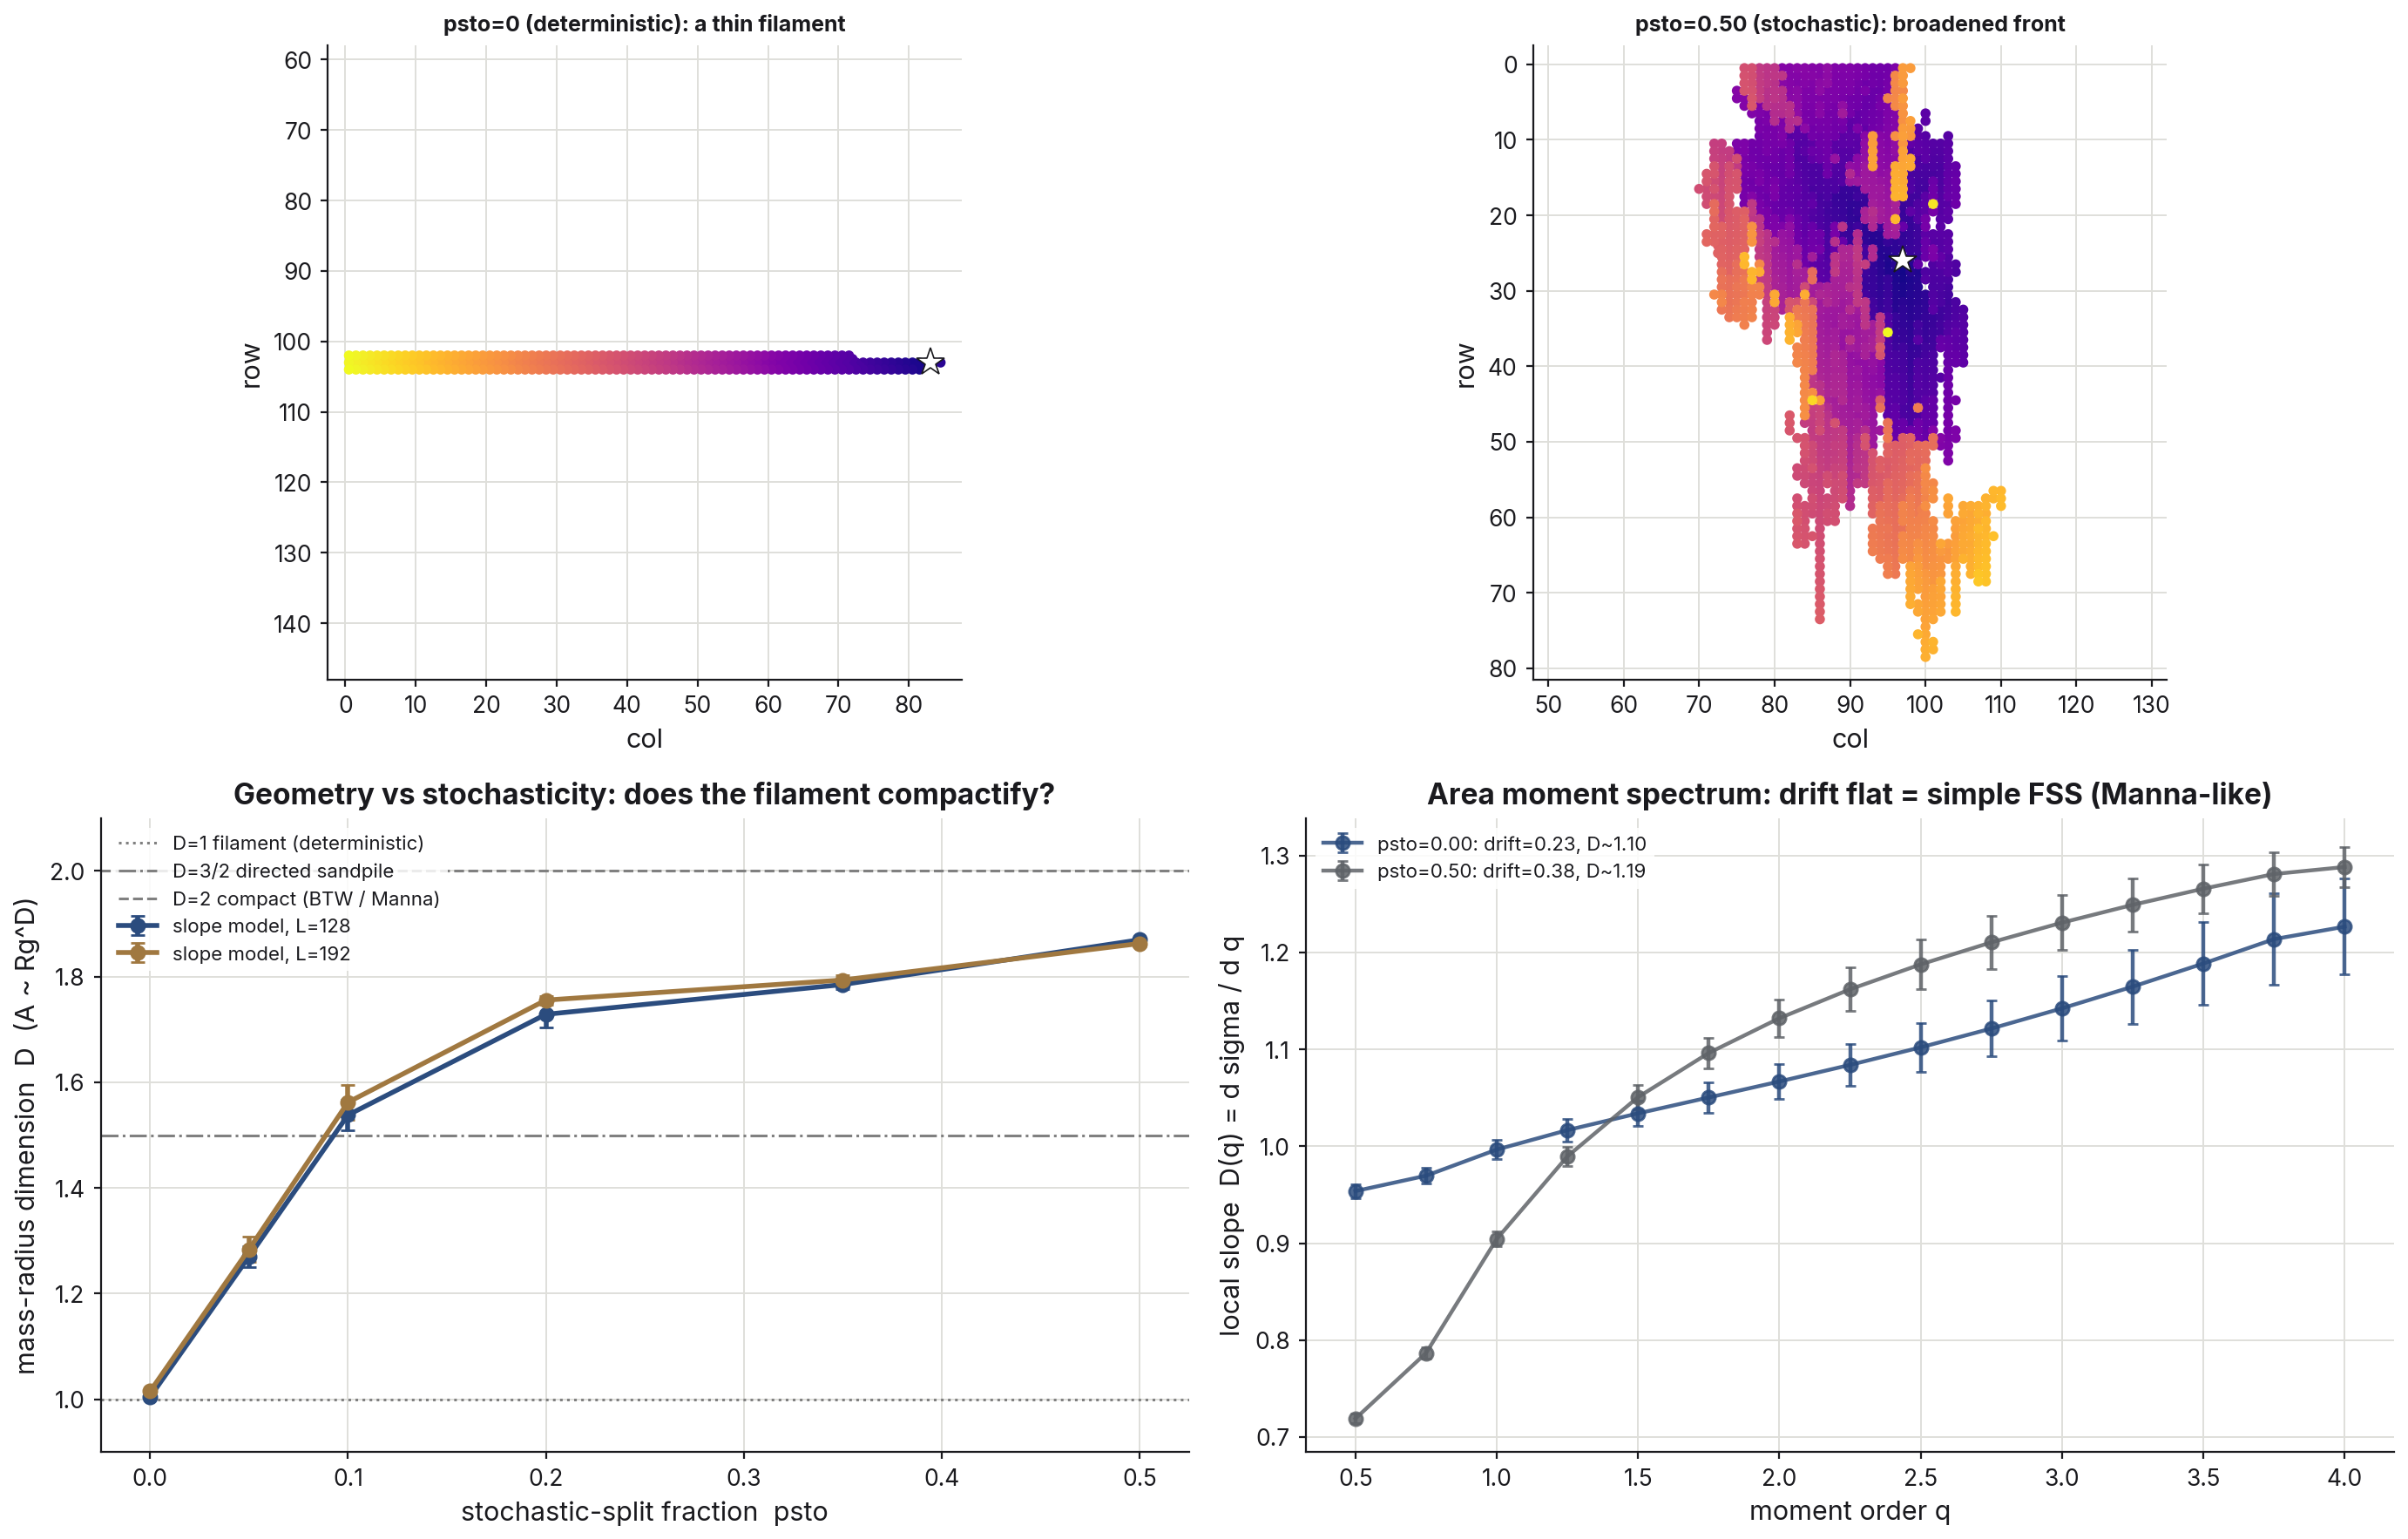
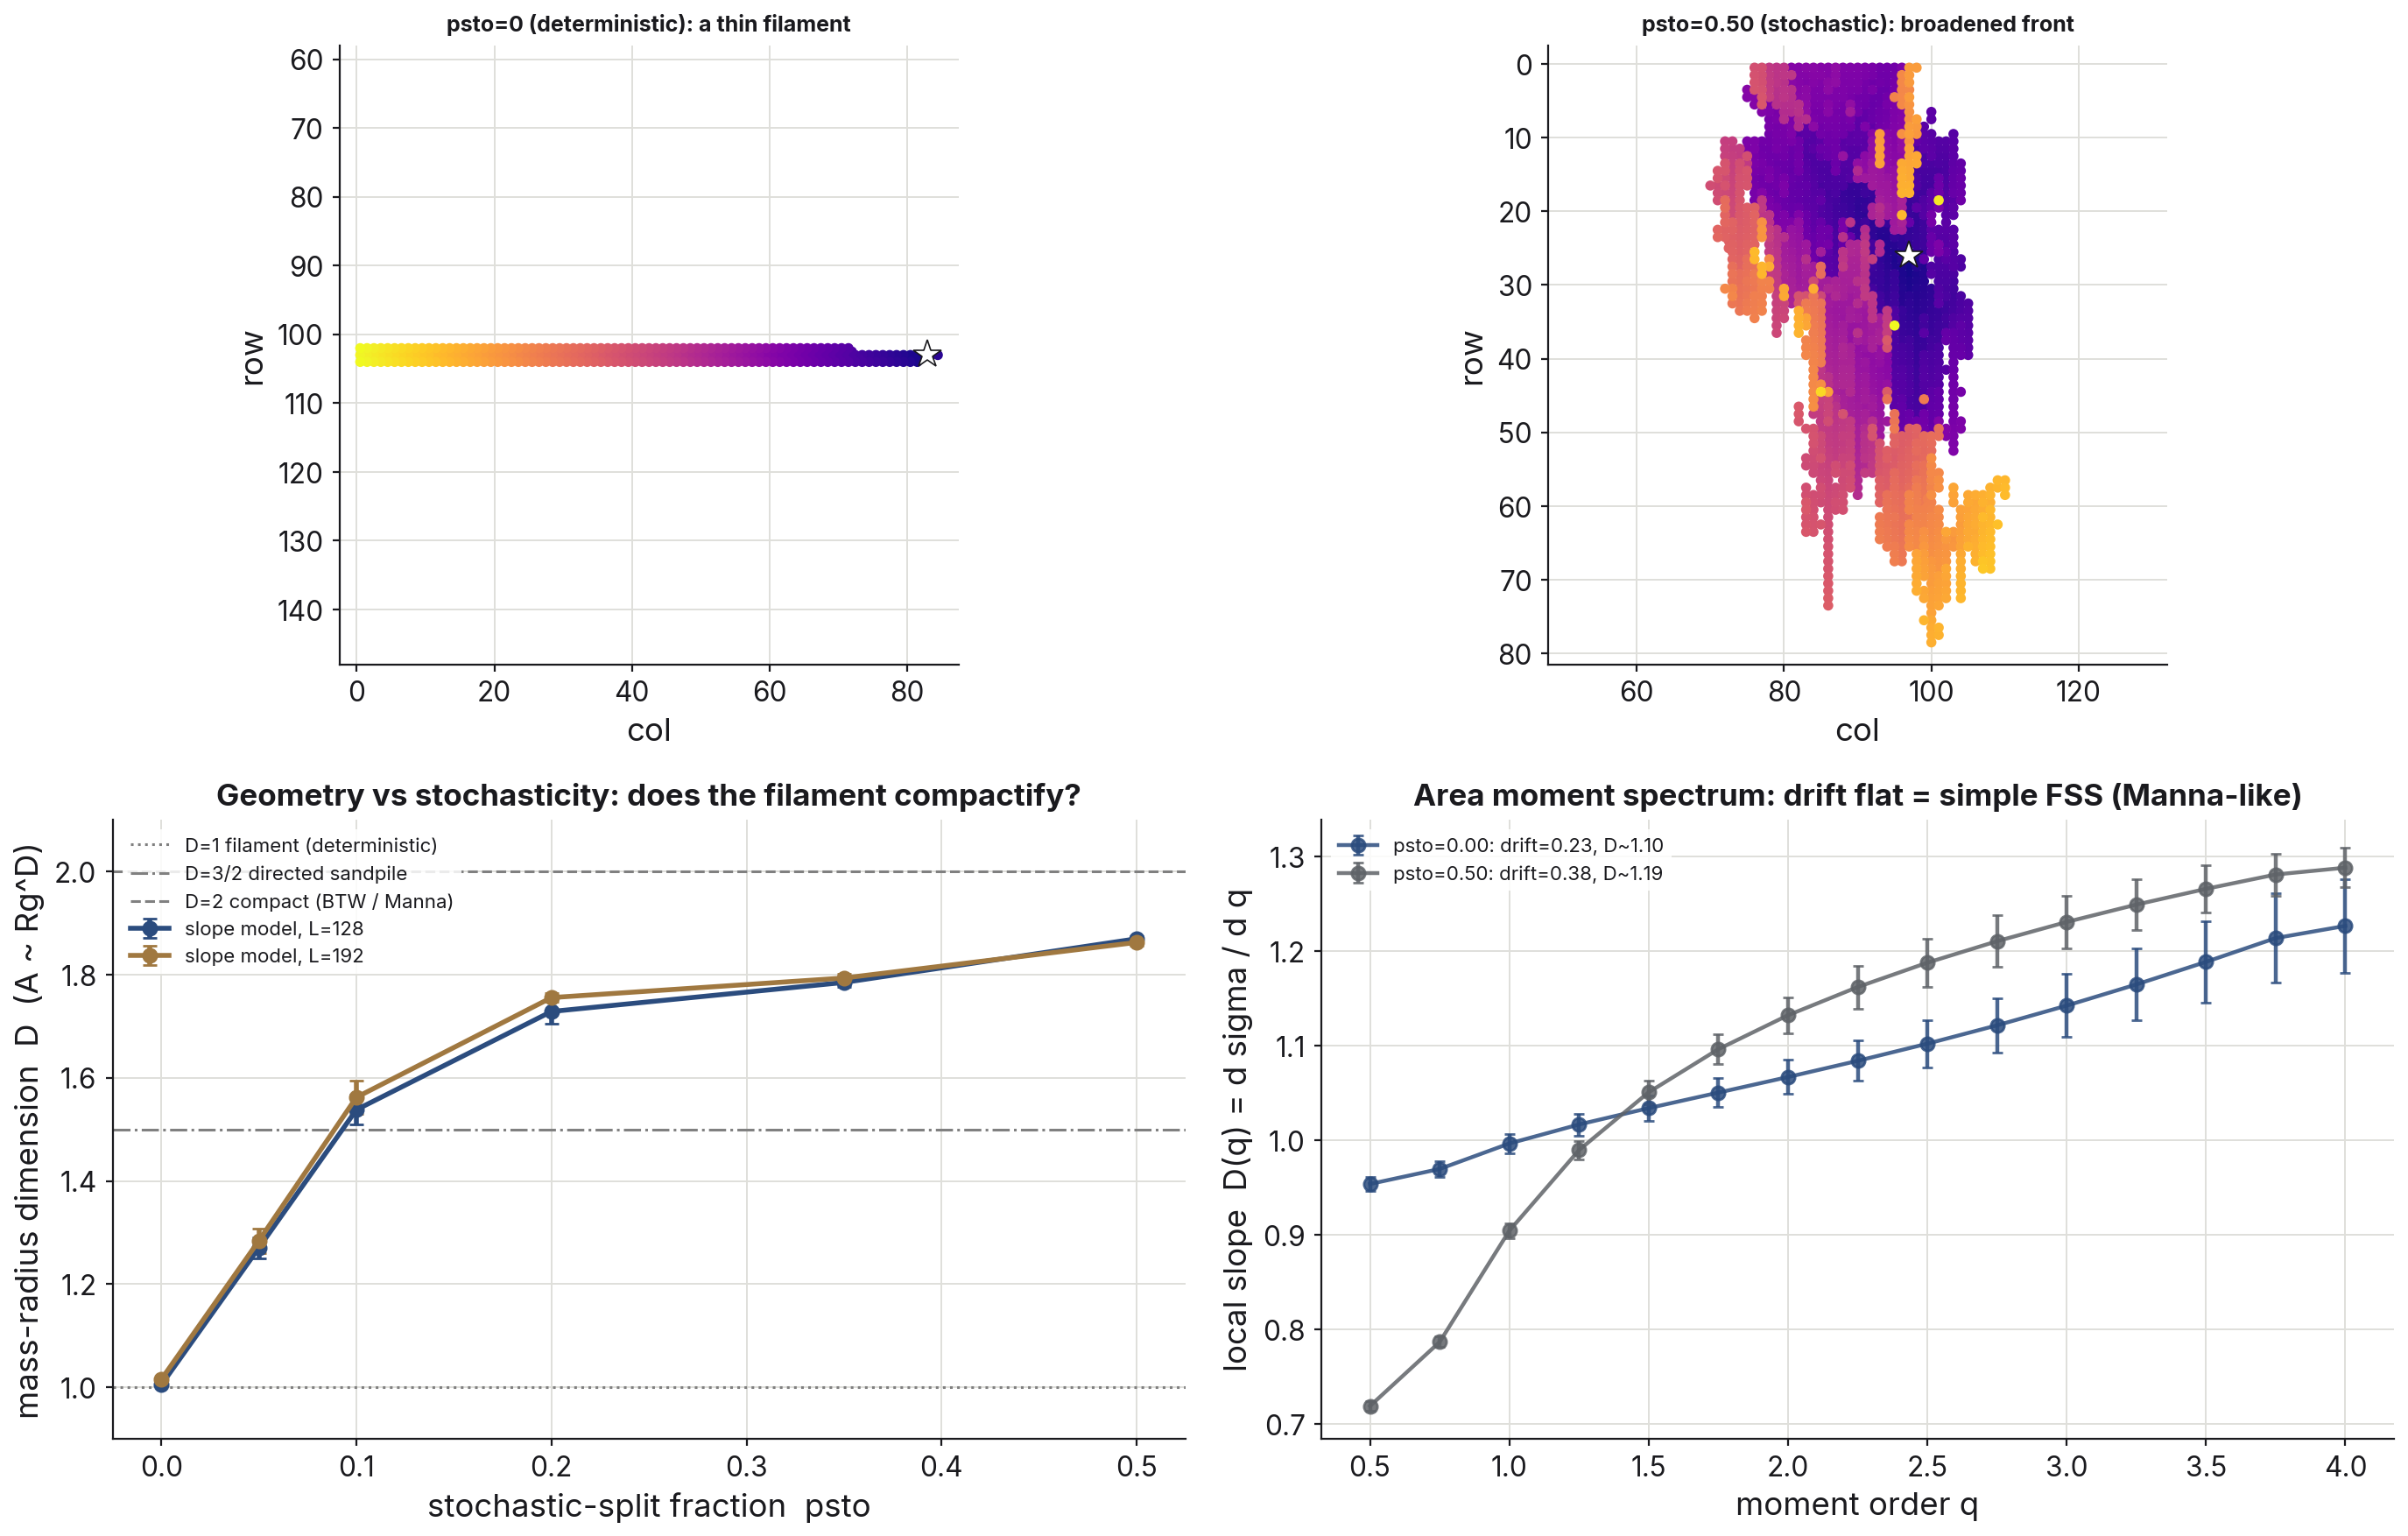
capstone: legibility round two -- borderline pair re-rendered, full QA
Full visual QA of all 18 site figures at native resolution: clean. The
two borderline-small ones (geometry1d and stochastic_split, 11.7px
effective) re-rendered at 1.20x fonts with titles at 1.05x via the
unchanged-script harness; both reproduced their findings (1-D D=1.00,
exponents 1.00/2.00/0.98, gap 0.11/0.14; psto D climb 1.0->1.87 with
L=128/192 overlapping). Colophon and log synced (156.0 h / 40 days /
181 commits).

diff --git a/logs.html b/logs.html
@@ -415,8 +415,8 @@
       </tr>
       <tr data-date="2026-07-19">
         <td class="date-cell">2026-07-19</td>
-        <td class="hours-cell">0.75</td>
-        <td>Figure legibility pass on the live site: measured every figure's effective on-page text size, re-rendered the two worst under the shared style with a new font-scale option (scripts untouched, numbers reproduced), widened the many-wrongs display, and fixed a doubled percent sign in a legend.</td>
+        <td class="hours-cell">1.50</td>
+        <td>Figure legibility pass on the live site: measured every figure's effective on-page text size, re-rendered the four smallest under the shared style with a new font-scale option (scripts untouched, numbers reproduced), inspected all eighteen at full resolution, widened the many-wrongs display, and fixed a doubled percent sign in a legend.</td>
       </tr>
     </tbody>
     <tfoot>
@@ -607,7 +607,7 @@
     },
     {
       date: "2026-07-19",
-      body: "A short follow-up day. Yesterday's teaser rebuild set a legibility bar, so today I measured the whole page against it: for each of the eighteen figures, how large does its base 11-point type actually land on screen at the width the page displays it? Most figures sit at a comfortable 12.5 to 20 pixels. Three fell short of 12.\n\nThe two worst were casualties of their own native width. The filament-geometry centerpiece and the typical-versus-tail fattening figure render at 14.8 and 15.8 inches across, which scaled their on-page text down to about 10 pixels. The shared figure style gained a font-scale option settable from the environment, defaulting to exactly the old behavior, and both figures were re-rendered through the same untouched-script harness at 1.22x and 1.40x. It took three tries: the first scale-up collided the long panel titles, so titles now scale separately from body text. Both re-runs recomputed their measurements from scratch and reproduced the findings' numbers, the mass-radius dimensions 1.02 against BTW's 2.01, and the mean and median area growth slopes 0.99 and 0.90. The third short figure, the many-wrongs scaling that keeps its committed rendering under the compute-budget rule, needed no computation at all: displaying it at the wide figure width instead of column width takes its text from 10.8 to 15.9 pixels.\n\nOne two-character repair along the way: the fattening figure's legend had read 'bottom 90%% area' with a doubled percent sign since it was first drawn in June, a printf escape left in a plain string. It reads correctly now. The run logs the re-renders overwrote were restored from version control, as in the original render session. Claude ran the audit and the renders; the calls are mine."
+      body: "A short follow-up day. Yesterday's teaser rebuild set a legibility bar, so today I measured the whole page against it: for each of the eighteen figures, how large does its base 11-point type actually land on screen at the width the page displays it? Most figures sit at a comfortable 12.5 to 20 pixels. Three fell short of 12.\n\nThe two worst were casualties of their own native width. The filament-geometry centerpiece and the typical-versus-tail fattening figure render at 14.8 and 15.8 inches across, which scaled their on-page text down to about 10 pixels. The shared figure style gained a font-scale option settable from the environment, defaulting to exactly the old behavior, and both figures were re-rendered through the same untouched-script harness at 1.22x and 1.40x. It took three tries: the first scale-up collided the long panel titles, so titles now scale separately from body text. Both re-runs recomputed their measurements from scratch and reproduced the findings' numbers, the mass-radius dimensions 1.02 against BTW's 2.01, and the mean and median area growth slopes 0.99 and 0.90. The third short figure, the many-wrongs scaling that keeps its committed rendering under the compute-budget rule, needed no computation at all: displaying it at the wide figure width instead of column width takes its text from 10.8 to 15.9 pixels. A full-resolution pass through the remaining figures turned up no other defects, and the two borderline cases just above the cutoff, the 1-D anchor and the stochastic-split figure, got the same re-render treatment at 1.2x, again reproducing their findings' numbers.\n\nOne two-character repair along the way: the fattening figure's legend had read 'bottom 90%% area' with a doubled percent sign since it was first drawn in June, a printf escape left in a plain string. It reads correctly now. The run logs the re-renders overwrote were restored from version control, as in the original render session. Claude ran the audit and the renders; the calls are mine."
     }
   ];
 

diff --git a/docs/index.html b/docs/index.html
@@ -62,7 +62,7 @@
   <div class="stat-strip" aria-label="Project statistics">
     <div class="stat"><span class="num">3</span><span class="label">systems</span></div>
     <div class="stat"><span class="num">123</span><span class="label">findings</span></div>
-    <div class="stat"><span class="num">155.25</span><span class="label">hours</span></div>
+    <div class="stat"><span class="num">156.0</span><span class="label">hours</span></div>
     <div class="stat"><span class="num">133</span><span class="label">scripts</span></div>
     <div class="stat"><span class="num">9</span><span class="label">self-tests</span></div>
     <div class="stat"><span class="num">10</span><span class="label">corrections</span></div>
@@ -282,7 +282,7 @@
 
 <section id="colophon" class="colophon">
   <h2>Colophon</h2>
-  <p>123 documented findings (94 flocking, 22 sandpile, 7 earthquake) &middot; 155.25 logged hours over 40 research days &middot; 180 commits &middot; 150 figures &middot; 133 Python scripts. Built with NumPy, numba, and matplotlib. The performance engines (a 600&times; active-list sandpile engine, a 251&times; vectorized predator force) are validated bit-for-bit against their reference implementations, and every engine ships self-tests. Every figure on this page regenerates from a named script in the <a href="https://github.com/ninjahawk/swarmsim">repository</a>. Textbook: Paul Charbonneau, <em>Natural Complexity</em> (Princeton, 2017); flocking model from Silverberg et al., PRL 110, 228701 (2013). Findings, full-detail reports, and the day-by-day research log are in the repository. AI tools (Anthropic's Claude) were used as a coding and analysis assistant throughout, documented per session in the research log; the scientific decisions and interpretations are my own.</p>
+  <p>123 documented findings (94 flocking, 22 sandpile, 7 earthquake) &middot; 156.0 logged hours over 40 research days &middot; 181 commits &middot; 150 figures &middot; 133 Python scripts. Built with NumPy, numba, and matplotlib. The performance engines (a 600&times; active-list sandpile engine, a 251&times; vectorized predator force) are validated bit-for-bit against their reference implementations, and every engine ships self-tests. Every figure on this page regenerates from a named script in the <a href="https://github.com/ninjahawk/swarmsim">repository</a>. Textbook: Paul Charbonneau, <em>Natural Complexity</em> (Princeton, 2017); flocking model from Silverberg et al., PRL 110, 228701 (2013). Findings, full-detail reports, and the day-by-day research log are in the repository. AI tools (Anthropic's Claude) were used as a coding and analysis assistant throughout, documented per session in the research log; the scientific decisions and interpretations are my own.</p>
   <p>References:</p>
   <ol class="refs">
     <li>P. Charbonneau, <em>Natural Complexity: A Modeling Handbook</em>, Princeton University Press (2017).</li>